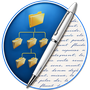
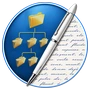
2.4.2 (41): iconiță nouă rotundă, web v87

diff --git a/app/src/main/assets/www/sw.js b/app/src/main/assets/www/sw.js
@@ -1,6 +1,6 @@
 /* Notis service worker: app shell cache. HTML = network-first (updates arrive), static = cache-first.
    Voice model files (Mihai, own cache "jarvis-piper-v1") and weather (Open-Meteo) are NOT touched: passed straight to the network. */
-var VERSION='notis-shell-v86';
+var VERSION='notis-shell-v87';
 var SHELL=['./','index.html','manifest.webmanifest?v=86','icons/sc-new-96.png','icons/sc-search-96.png','icons/sc-cart-96.png',
  'icons/favicon.png?v=86','icons/icon-192.png?v=86','icons/classic-icon-192.png?v=86','icons/icon-512.png?v=86','icons/apple-touch-icon.png?v=86','art/jad-t.svg','art/jad-b.svg','art/lac-t.svg','art/lac-b.svg','art/tus-t.svg','art/tus-b.svg','art/paper.svg','art/neon-b.svg','art/papyrus.svg','art/pap-t.svg','art/pap-b.svg','art/m-sakura.svg','art/lup-d.webp','art/lup-l.webp','art/salon-marble.svg','art/cleo-q.svg','art/cleo-b.svg','art/cleo-l.svg','art/cleo-pap.svg','art/bg-lup-t.webp','art/bg-mist-t.webp','art/bg-forest-t.webp','art/bg-lake-t.webp','art/bg-sea-t.webp','art/bg-snow-t.webp','art/bg-night-t.webp','art/hdr-new@1x.webp','art/hdr-new@2x.webp','art/hdr-new@3x.webp','art/hdr-classic@1x.webp','art/hdr-classic@2x.webp','art/hdr-classic@3x.webp','art/ic-ren@1x.webp','art/ic-ren@2x.webp','art/ic-ren@3x.webp','art/ic-mv@1x.webp','art/ic-mv@2x.webp','art/ic-mv@3x.webp','art/demo-draw.webp','art/demo-rec.m4a','i18n/en.js','i18n/fr.js','i18n/de.js','i18n/it.js','i18n/hu.js','i18n/ru.js','manifest-en.webmanifest','manifest-fr.webmanifest','manifest-de.webmanifest','manifest-it.webmanifest','manifest-hu.webmanifest','manifest-ru.webmanifest'];
 var FONT_HOSTS=/^https:\/\/(fonts\.googleapis\.com|fonts\.gstatic\.com)\//,DSEG=/^https:\/\/cdn\.jsdelivr\.net\/npm\/dseg@/;
